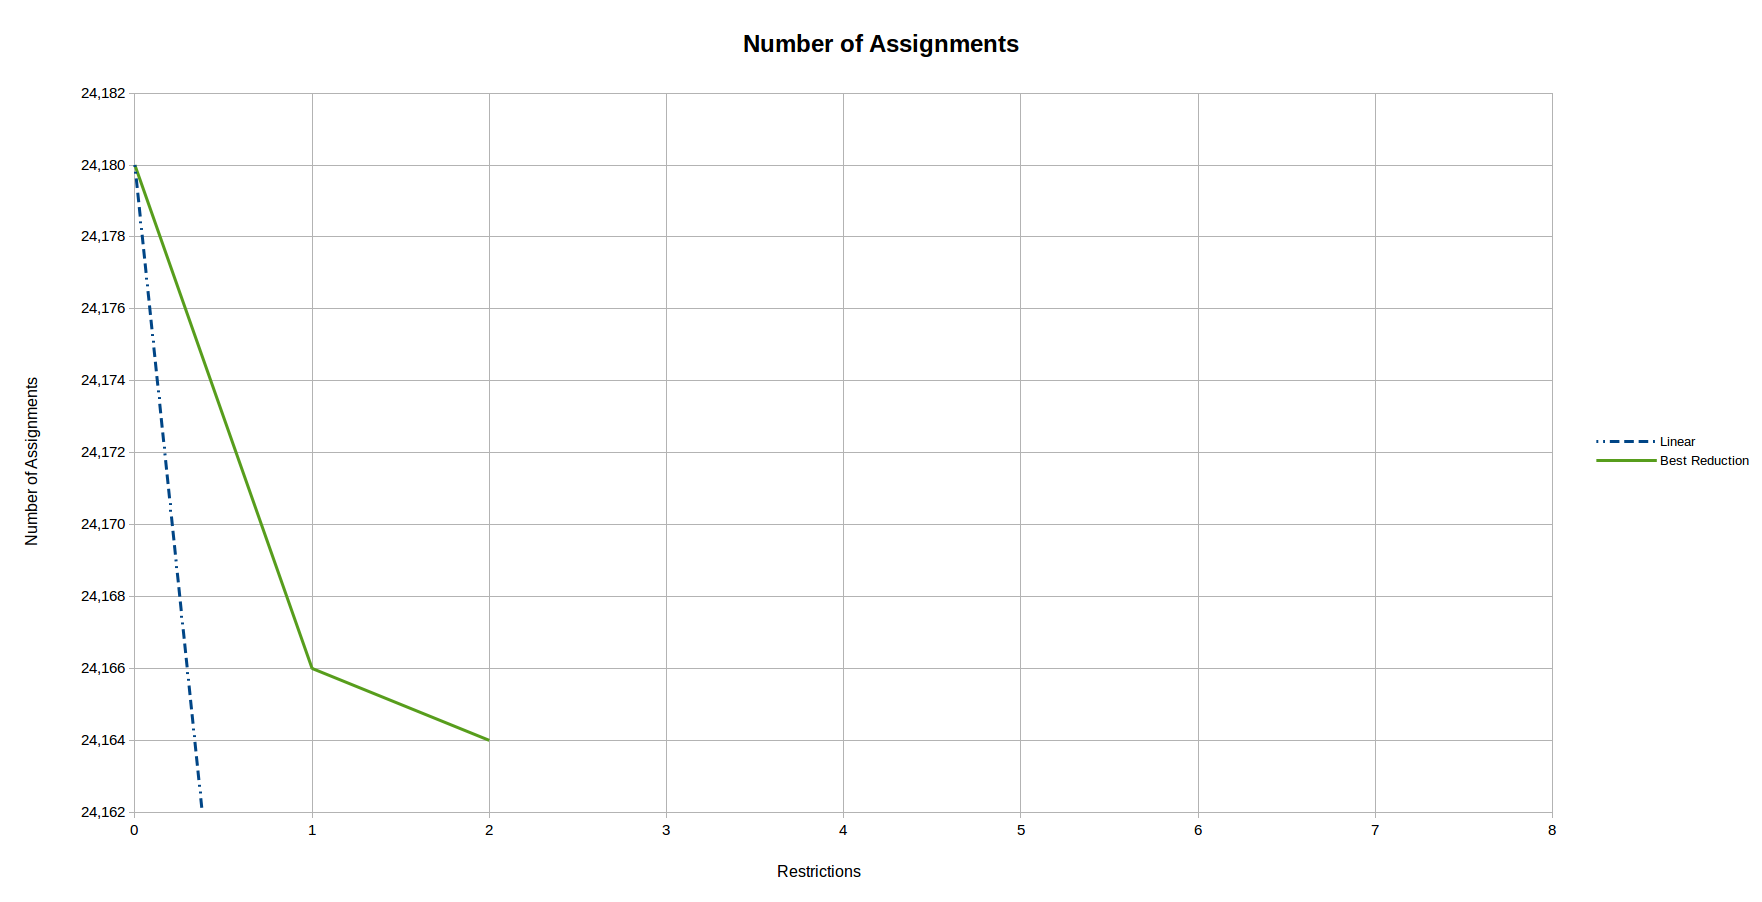
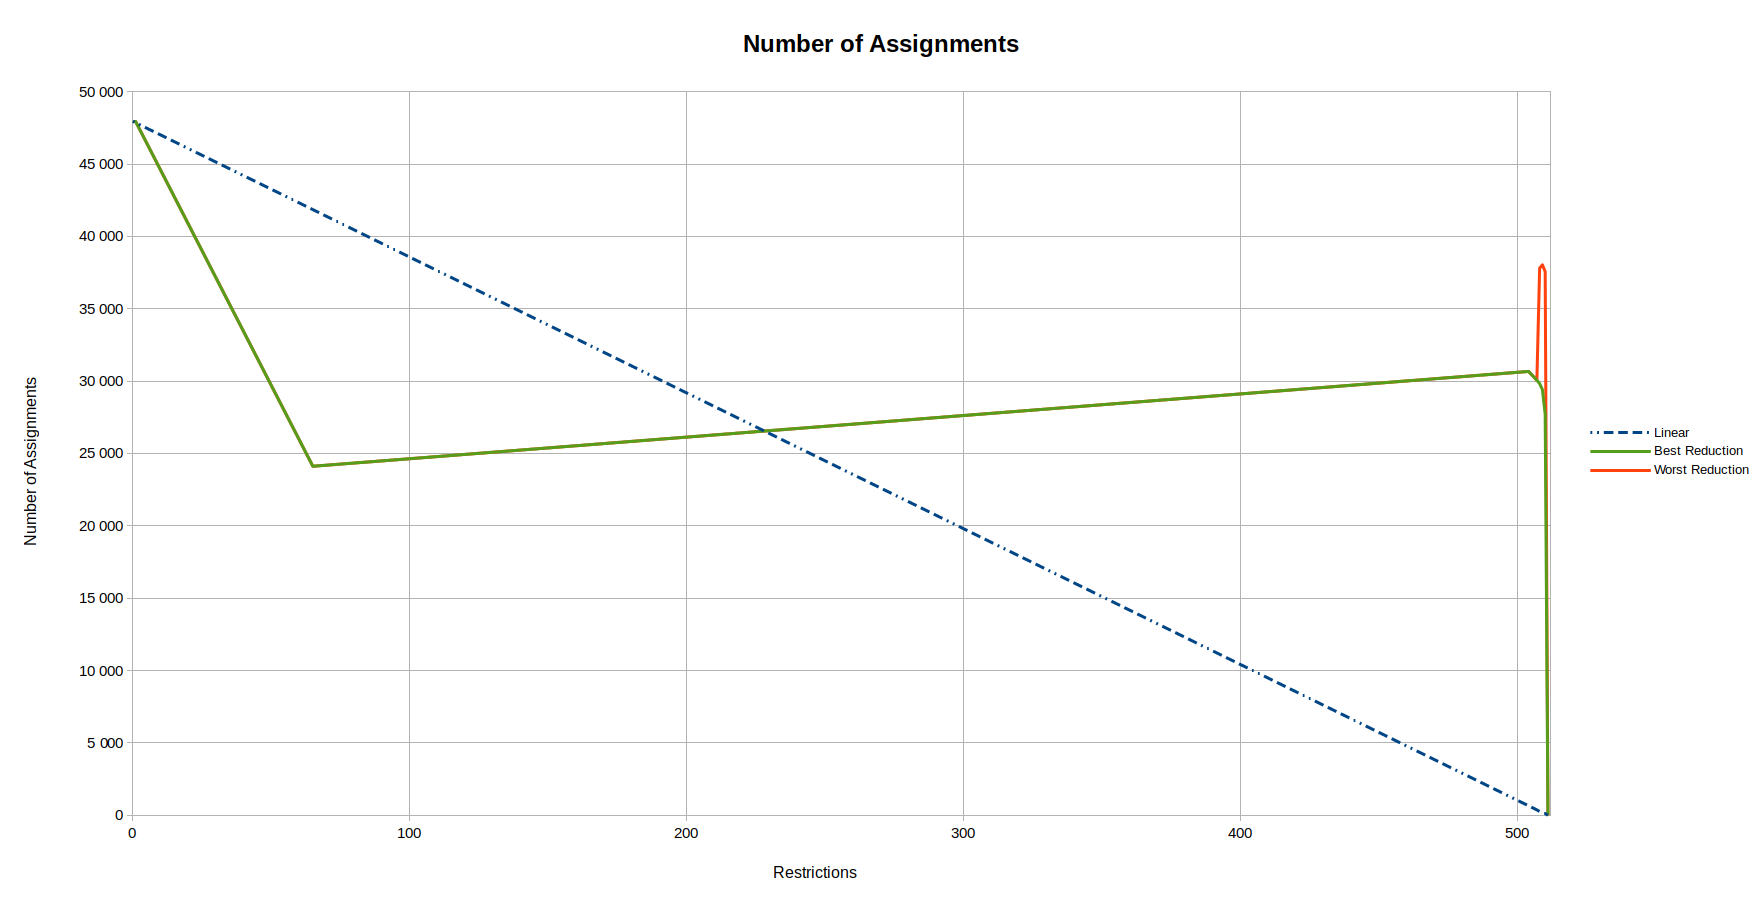
Updated the results page

diff --git a/results/Overview.md b/results/Overview.md
@@ -206,11 +206,19 @@ fixed.
 
 Results better than the linear reduction are marked in bold.
 
-| Restrictions | Linear Reduction | Best Reduction | Best Restriction |
-|:------------:|:----------------:|:--------------:| ---------------- |
-|       0      | 47,947           | 47,947         | [Initial Situation](000/000.md) |
-|       1      | 47,853           | (24,166)         | ([E031032](001/e031032.md)) |
-|       2      | 47,759           | (24,164)         | ([T002-E031032](002/t002_e031032.md), [F002-E031032](002/f002_e031032.md)) |
+| Restrictions | Linear Reduction | Best Reduction | Worst Reduction |
+|:------------:|:----------------:|:--------------:|:---------------:|
+|       0      | 47,947           | 47,947         | 47,947          |
+|       1      | 47,853           | 47,947         | 47,947          |
+|      65      | 41,848           | **24,116**     | **24,116**      |
+|     504      |    657           | 30,670         | 30,670          |
+|     507      |    375           | 30,061         | 30,061          |
+|     508      |    281           | 29,828         | 37,806          |
+|     509      |    188           | 29,411         | 38,035          |
+|     510      |     94           | 27,700         | 37,558          |
+|     511      |      0           |      0         |      0          |
 
 
 ![Number of Assignments](Number_of_Assignments.png "Number of Assignments")
+
+![Number of Assignments for 500 Restrictions and More](Number_of_Assignments_500_or_Higher.png "Number of Assignments for 500 Restrictions and More")
